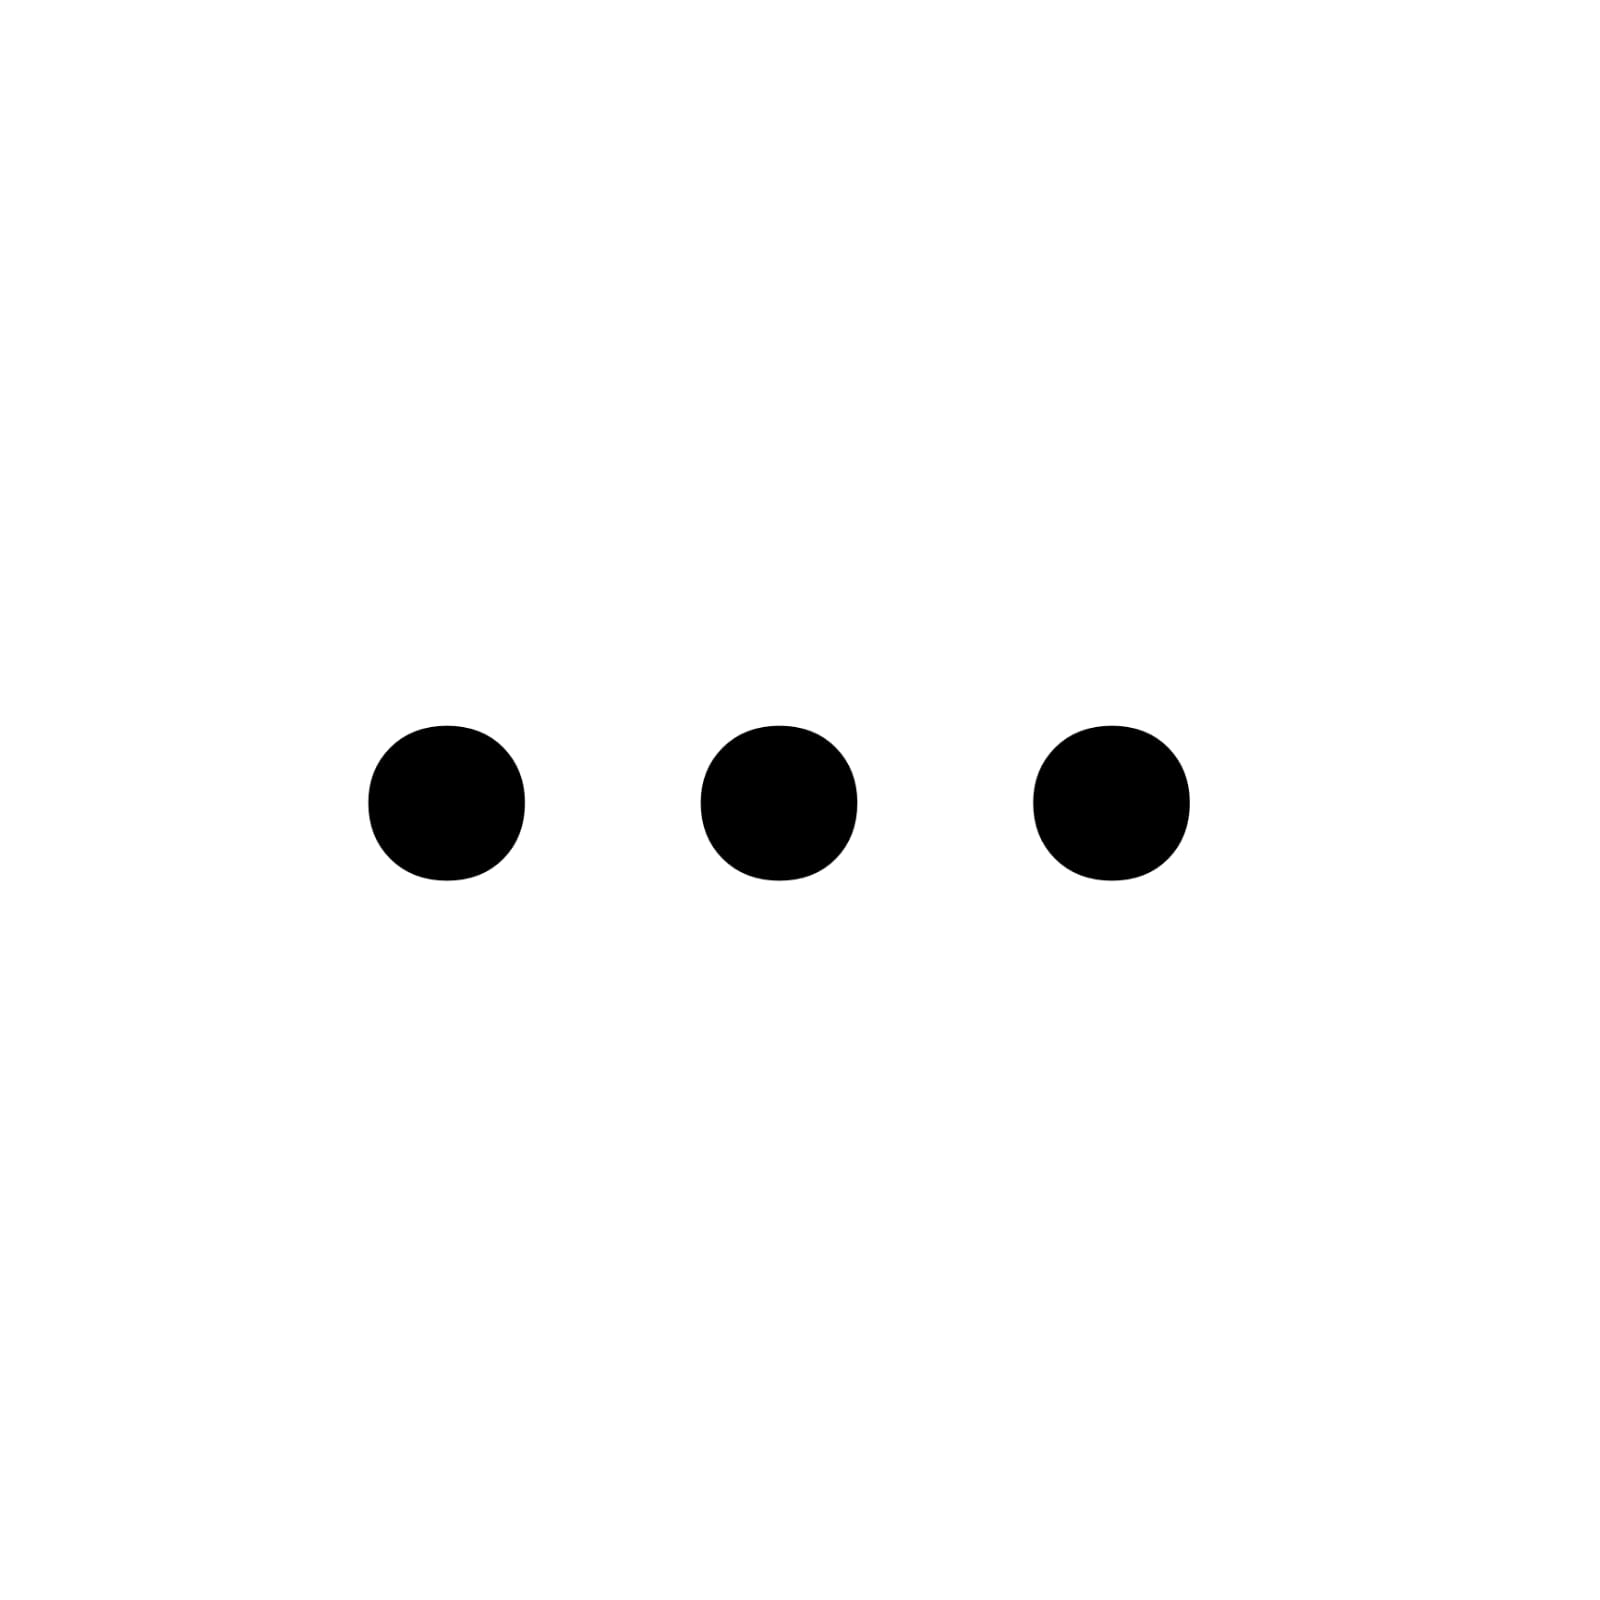
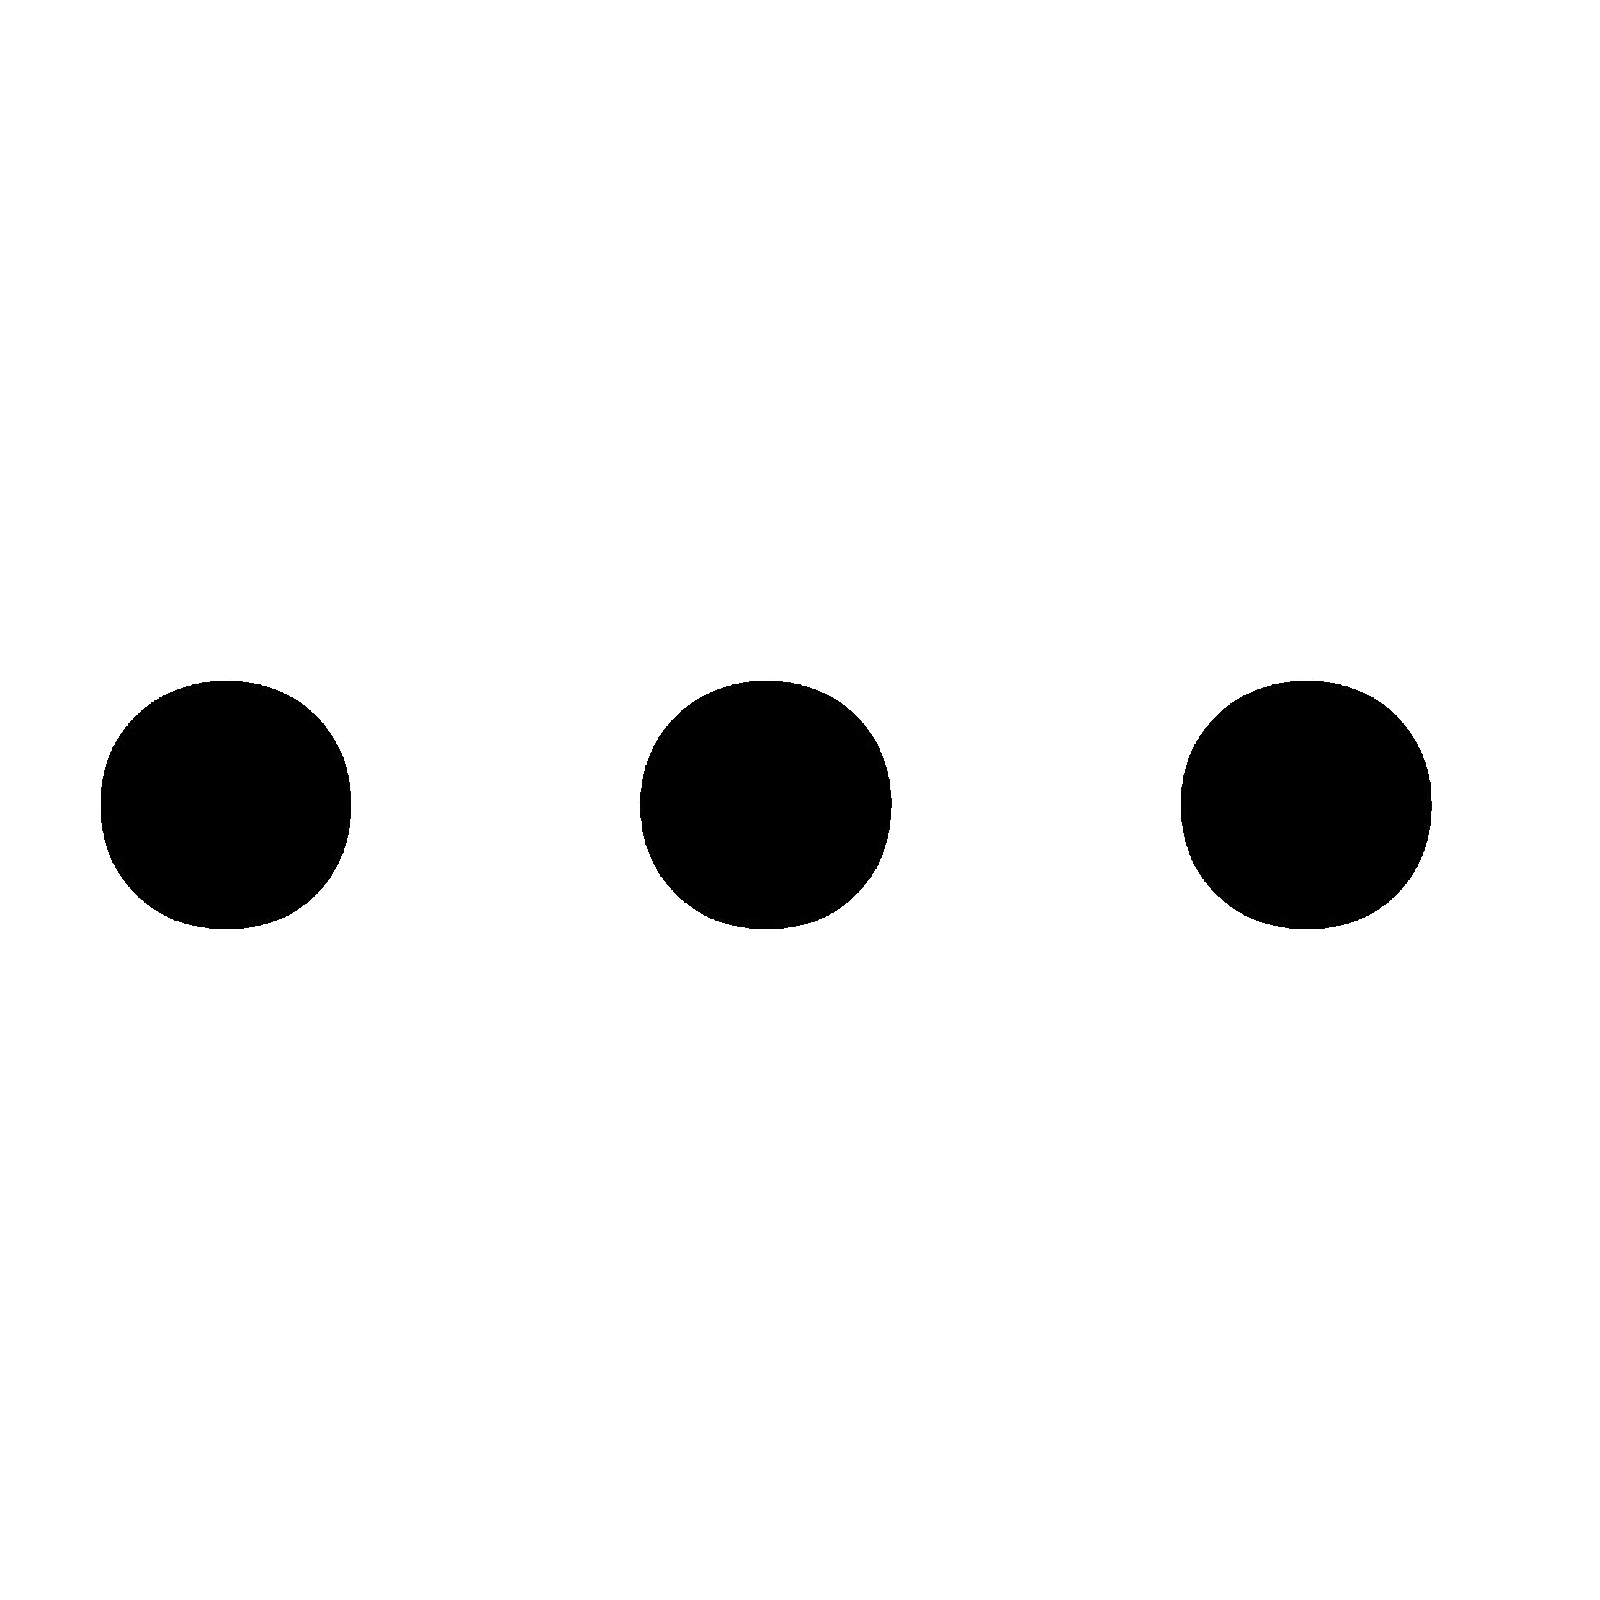
Fixed advice.html for phones

Changed region(s): [[0.625, 0.4062, 0.9062, 0.5938], [0.0625, 0.4062, 0.3438, 0.5938], [0.375, 0.4062, 0.5625, 0.5938]]

diff --git a/css/advice.css b/css/advice.css
@@ -24,14 +24,14 @@ body, html {
     height: 300px;
     border-radius: 35px;
     text-align: center;
-    margin-left: 36.5vw;
-    margin: 250px 0 0 700px;
+    margin-left: 5.5vw;
+    margin: 250px 0 0 70px;
 }
 
 .Warning {
     font-family: English-Bold;
     color: black;
-    padding: 305px 0 0 0;
+    padding: 205px 0 0 0;
 }
 
 .card2 {
@@ -39,7 +39,7 @@ body, html {
     background-color: white;
     height: 70px;
     border-radius: 35px;
-    margin: 40px 0 0 700px;
+    margin: 40px 0 0 70px;
 }
 
 .Proceed {
